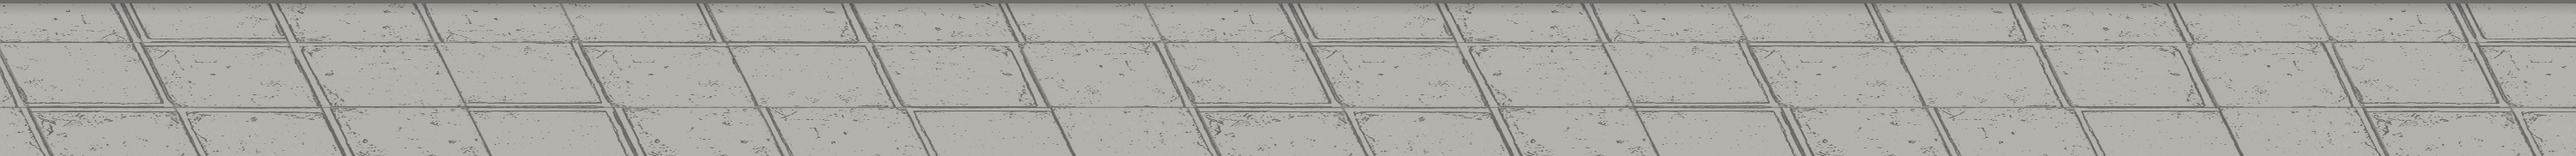
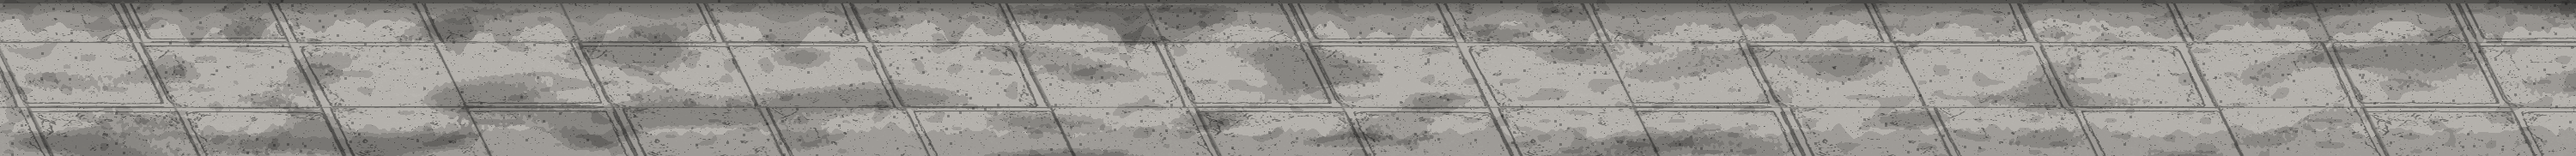
Grimy streets, one to contrast each wall (#110)
Three streets instead of one per wall: setts (ground.png), bonded flagstones
(ground-flags.png) and cracked asphalt (ground-asphalt.png), each wall on one
that contrasts with it (1 and 4 flagstones, 2 and 6 asphalt, 3, 5 and the
brick setts). All grimed in the book's flat, drawn look: ragged two-tone
stains, soot pooled at the wall's foot, grit and chips, a ragged gutter.
ground-1.png ... ground-5.png are removed; scripts/wall-tiles.py --grounds
draws them.

Claude-Session: https://claude.ai/code/session_01LRucPcoCMzxkhYqtQLBmm8

diff --git a/styles/dc-native.css b/styles/dc-native.css
@@ -253,13 +253,13 @@
    generated, tiles included, by scripts/wall-tiles.py from
    source-art/wall-sheet.png. */
 /* page-walls:begin — generated by scripts/wall-tiles.py; edit that, not this */
-@page dc-wall-1 { background: url("../images/ground-1.png") 50% calc(var(--gp-content-h, 100% - var(--bottom-margin) + 0.6in) + var(--bottom-margin) - 0.6in) / 10in 0.6in no-repeat, url("../images/wall-1.png") 0 0 / 4.58in auto repeat var(--bg); }
-@page dc-wall-1-blue { background: url("../images/ground-1.png") 50% calc(var(--gp-content-h, 100% - var(--bottom-margin) + 0.6in) + var(--bottom-margin) - 0.6in) / 10in 0.6in no-repeat, url("../images/wall-1.png") 0 0 / 4.58in auto repeat var(--bg); }
-@page dc-wall-1-rust { background: url("../images/ground-1.png") 50% calc(var(--gp-content-h, 100% - var(--bottom-margin) + 0.6in) + var(--bottom-margin) - 0.6in) / 10in 0.6in no-repeat, url("../images/wall-1.png") 0 0 / 4.58in auto repeat var(--bg); }
-@page dc-wall-1-violet { background: url("../images/ground-1.png") 50% calc(var(--gp-content-h, 100% - var(--bottom-margin) + 0.6in) + var(--bottom-margin) - 0.6in) / 10in 0.6in no-repeat, url("../images/wall-1.png") 0 0 / 4.58in auto repeat var(--bg); }
-@page dc-wall-1-amethyst { background: url("../images/ground-1.png") 50% calc(var(--gp-content-h, 100% - var(--bottom-margin) + 0.6in) + var(--bottom-margin) - 0.6in) / 10in 0.6in no-repeat, url("../images/wall-1.png") 0 0 / 4.58in auto repeat var(--bg); }
-@page dc-wall-1-amber { background: url("../images/ground-1.png") 50% calc(var(--gp-content-h, 100% - var(--bottom-margin) + 0.6in) + var(--bottom-margin) - 0.6in) / 10in 0.6in no-repeat, url("../images/wall-1.png") 0 0 / 4.58in auto repeat var(--bg); }
-@page dc-wall-1-ink { background: url("../images/ground-1.png") 50% calc(var(--gp-content-h, 100% - var(--bottom-margin) + 0.6in) + var(--bottom-margin) - 0.6in) / 10in 0.6in no-repeat, url("../images/wall-1.png") 0 0 / 4.58in auto repeat var(--bg); }
+@page dc-wall-1 { background: url("../images/ground-flags.png") 50% calc(var(--gp-content-h, 100% - var(--bottom-margin) + 0.6in) + var(--bottom-margin) - 0.6in) / 10in 0.6in no-repeat, url("../images/wall-1.png") 0 0 / 4.58in auto repeat var(--bg); }
+@page dc-wall-1-blue { background: url("../images/ground-flags.png") 50% calc(var(--gp-content-h, 100% - var(--bottom-margin) + 0.6in) + var(--bottom-margin) - 0.6in) / 10in 0.6in no-repeat, url("../images/wall-1.png") 0 0 / 4.58in auto repeat var(--bg); }
+@page dc-wall-1-rust { background: url("../images/ground-flags.png") 50% calc(var(--gp-content-h, 100% - var(--bottom-margin) + 0.6in) + var(--bottom-margin) - 0.6in) / 10in 0.6in no-repeat, url("../images/wall-1.png") 0 0 / 4.58in auto repeat var(--bg); }
+@page dc-wall-1-violet { background: url("../images/ground-flags.png") 50% calc(var(--gp-content-h, 100% - var(--bottom-margin) + 0.6in) + var(--bottom-margin) - 0.6in) / 10in 0.6in no-repeat, url("../images/wall-1.png") 0 0 / 4.58in auto repeat var(--bg); }
+@page dc-wall-1-amethyst { background: url("../images/ground-flags.png") 50% calc(var(--gp-content-h, 100% - var(--bottom-margin) + 0.6in) + var(--bottom-margin) - 0.6in) / 10in 0.6in no-repeat, url("../images/wall-1.png") 0 0 / 4.58in auto repeat var(--bg); }
+@page dc-wall-1-amber { background: url("../images/ground-flags.png") 50% calc(var(--gp-content-h, 100% - var(--bottom-margin) + 0.6in) + var(--bottom-margin) - 0.6in) / 10in 0.6in no-repeat, url("../images/wall-1.png") 0 0 / 4.58in auto repeat var(--bg); }
+@page dc-wall-1-ink { background: url("../images/ground-flags.png") 50% calc(var(--gp-content-h, 100% - var(--bottom-margin) + 0.6in) + var(--bottom-margin) - 0.6in) / 10in 0.6in no-repeat, url("../images/wall-1.png") 0 0 / 4.58in auto repeat var(--bg); }
 @page dc-wall-1-blue:left  { @bottom-right { background: var(--hud-blue-dark); } }
 @page dc-wall-1-blue:right { @bottom-left  { background: var(--hud-blue-dark); } }
 @page dc-wall-1-rust:left  { @bottom-right { background: var(--rust); } }
@@ -272,13 +272,13 @@
 @page dc-wall-1-amber:right { @bottom-left  { background: var(--amber-dark); } }
 @page dc-wall-1-ink:left  { @bottom-right { background: var(--ink-dark); } }
 @page dc-wall-1-ink:right { @bottom-left  { background: var(--ink-dark); } }
-@page dc-wall-2 { background: url("../images/ground-2.png") 50% calc(var(--gp-content-h, 100% - var(--bottom-margin) + 0.6in) + var(--bottom-margin) - 0.6in) / 10in 0.6in no-repeat, url("../images/wall-2.png") 0 0 / 4.78in auto repeat var(--bg); }
-@page dc-wall-2-blue { background: url("../images/ground-2.png") 50% calc(var(--gp-content-h, 100% - var(--bottom-margin) + 0.6in) + var(--bottom-margin) - 0.6in) / 10in 0.6in no-repeat, url("../images/wall-2.png") 0 0 / 4.78in auto repeat var(--bg); }
-@page dc-wall-2-rust { background: url("../images/ground-2.png") 50% calc(var(--gp-content-h, 100% - var(--bottom-margin) + 0.6in) + var(--bottom-margin) - 0.6in) / 10in 0.6in no-repeat, url("../images/wall-2.png") 0 0 / 4.78in auto repeat var(--bg); }
-@page dc-wall-2-violet { background: url("../images/ground-2.png") 50% calc(var(--gp-content-h, 100% - var(--bottom-margin) + 0.6in) + var(--bottom-margin) - 0.6in) / 10in 0.6in no-repeat, url("../images/wall-2.png") 0 0 / 4.78in auto repeat var(--bg); }
-@page dc-wall-2-amethyst { background: url("../images/ground-2.png") 50% calc(var(--gp-content-h, 100% - var(--bottom-margin) + 0.6in) + var(--bottom-margin) - 0.6in) / 10in 0.6in no-repeat, url("../images/wall-2.png") 0 0 / 4.78in auto repeat var(--bg); }
-@page dc-wall-2-amber { background: url("../images/ground-2.png") 50% calc(var(--gp-content-h, 100% - var(--bottom-margin) + 0.6in) + var(--bottom-margin) - 0.6in) / 10in 0.6in no-repeat, url("../images/wall-2.png") 0 0 / 4.78in auto repeat var(--bg); }
-@page dc-wall-2-ink { background: url("../images/ground-2.png") 50% calc(var(--gp-content-h, 100% - var(--bottom-margin) + 0.6in) + var(--bottom-margin) - 0.6in) / 10in 0.6in no-repeat, url("../images/wall-2.png") 0 0 / 4.78in auto repeat var(--bg); }
+@page dc-wall-2 { background: url("../images/ground-asphalt.png") 50% calc(var(--gp-content-h, 100% - var(--bottom-margin) + 0.6in) + var(--bottom-margin) - 0.6in) / 10in 0.6in no-repeat, url("../images/wall-2.png") 0 0 / 4.78in auto repeat var(--bg); }
+@page dc-wall-2-blue { background: url("../images/ground-asphalt.png") 50% calc(var(--gp-content-h, 100% - var(--bottom-margin) + 0.6in) + var(--bottom-margin) - 0.6in) / 10in 0.6in no-repeat, url("../images/wall-2.png") 0 0 / 4.78in auto repeat var(--bg); }
+@page dc-wall-2-rust { background: url("../images/ground-asphalt.png") 50% calc(var(--gp-content-h, 100% - var(--bottom-margin) + 0.6in) + var(--bottom-margin) - 0.6in) / 10in 0.6in no-repeat, url("../images/wall-2.png") 0 0 / 4.78in auto repeat var(--bg); }
+@page dc-wall-2-violet { background: url("../images/ground-asphalt.png") 50% calc(var(--gp-content-h, 100% - var(--bottom-margin) + 0.6in) + var(--bottom-margin) - 0.6in) / 10in 0.6in no-repeat, url("../images/wall-2.png") 0 0 / 4.78in auto repeat var(--bg); }
+@page dc-wall-2-amethyst { background: url("../images/ground-asphalt.png") 50% calc(var(--gp-content-h, 100% - var(--bottom-margin) + 0.6in) + var(--bottom-margin) - 0.6in) / 10in 0.6in no-repeat, url("../images/wall-2.png") 0 0 / 4.78in auto repeat var(--bg); }
+@page dc-wall-2-amber { background: url("../images/ground-asphalt.png") 50% calc(var(--gp-content-h, 100% - var(--bottom-margin) + 0.6in) + var(--bottom-margin) - 0.6in) / 10in 0.6in no-repeat, url("../images/wall-2.png") 0 0 / 4.78in auto repeat var(--bg); }
+@page dc-wall-2-ink { background: url("../images/ground-asphalt.png") 50% calc(var(--gp-content-h, 100% - var(--bottom-margin) + 0.6in) + var(--bottom-margin) - 0.6in) / 10in 0.6in no-repeat, url("../images/wall-2.png") 0 0 / 4.78in auto repeat var(--bg); }
 @page dc-wall-2-blue:left  { @bottom-right { background: var(--hud-blue-dark); } }
 @page dc-wall-2-blue:right { @bottom-left  { background: var(--hud-blue-dark); } }
 @page dc-wall-2-rust:left  { @bottom-right { background: var(--rust); } }
@@ -291,13 +291,13 @@
 @page dc-wall-2-amber:right { @bottom-left  { background: var(--amber-dark); } }
 @page dc-wall-2-ink:left  { @bottom-right { background: var(--ink-dark); } }
 @page dc-wall-2-ink:right { @bottom-left  { background: var(--ink-dark); } }
-@page dc-wall-3 { background: url("../images/ground-3.png") 50% calc(var(--gp-content-h, 100% - var(--bottom-margin) + 0.6in) + var(--bottom-margin) - 0.6in) / 10in 0.6in no-repeat, url("../images/wall-3.png") 0 0 / 4.70in auto repeat var(--bg); }
-@page dc-wall-3-blue { background: url("../images/ground-3.png") 50% calc(var(--gp-content-h, 100% - var(--bottom-margin) + 0.6in) + var(--bottom-margin) - 0.6in) / 10in 0.6in no-repeat, url("../images/wall-3.png") 0 0 / 4.70in auto repeat var(--bg); }
-@page dc-wall-3-rust { background: url("../images/ground-3.png") 50% calc(var(--gp-content-h, 100% - var(--bottom-margin) + 0.6in) + var(--bottom-margin) - 0.6in) / 10in 0.6in no-repeat, url("../images/wall-3.png") 0 0 / 4.70in auto repeat var(--bg); }
-@page dc-wall-3-violet { background: url("../images/ground-3.png") 50% calc(var(--gp-content-h, 100% - var(--bottom-margin) + 0.6in) + var(--bottom-margin) - 0.6in) / 10in 0.6in no-repeat, url("../images/wall-3.png") 0 0 / 4.70in auto repeat var(--bg); }
-@page dc-wall-3-amethyst { background: url("../images/ground-3.png") 50% calc(var(--gp-content-h, 100% - var(--bottom-margin) + 0.6in) + var(--bottom-margin) - 0.6in) / 10in 0.6in no-repeat, url("../images/wall-3.png") 0 0 / 4.70in auto repeat var(--bg); }
-@page dc-wall-3-amber { background: url("../images/ground-3.png") 50% calc(var(--gp-content-h, 100% - var(--bottom-margin) + 0.6in) + var(--bottom-margin) - 0.6in) / 10in 0.6in no-repeat, url("../images/wall-3.png") 0 0 / 4.70in auto repeat var(--bg); }
-@page dc-wall-3-ink { background: url("../images/ground-3.png") 50% calc(var(--gp-content-h, 100% - var(--bottom-margin) + 0.6in) + var(--bottom-margin) - 0.6in) / 10in 0.6in no-repeat, url("../images/wall-3.png") 0 0 / 4.70in auto repeat var(--bg); }
+@page dc-wall-3 { background: url("../images/ground.png") 50% calc(var(--gp-content-h, 100% - var(--bottom-margin) + 0.6in) + var(--bottom-margin) - 0.6in) / 10in 0.6in no-repeat, url("../images/wall-3.png") 0 0 / 4.70in auto repeat var(--bg); }
+@page dc-wall-3-blue { background: url("../images/ground.png") 50% calc(var(--gp-content-h, 100% - var(--bottom-margin) + 0.6in) + var(--bottom-margin) - 0.6in) / 10in 0.6in no-repeat, url("../images/wall-3.png") 0 0 / 4.70in auto repeat var(--bg); }
+@page dc-wall-3-rust { background: url("../images/ground.png") 50% calc(var(--gp-content-h, 100% - var(--bottom-margin) + 0.6in) + var(--bottom-margin) - 0.6in) / 10in 0.6in no-repeat, url("../images/wall-3.png") 0 0 / 4.70in auto repeat var(--bg); }
+@page dc-wall-3-violet { background: url("../images/ground.png") 50% calc(var(--gp-content-h, 100% - var(--bottom-margin) + 0.6in) + var(--bottom-margin) - 0.6in) / 10in 0.6in no-repeat, url("../images/wall-3.png") 0 0 / 4.70in auto repeat var(--bg); }
+@page dc-wall-3-amethyst { background: url("../images/ground.png") 50% calc(var(--gp-content-h, 100% - var(--bottom-margin) + 0.6in) + var(--bottom-margin) - 0.6in) / 10in 0.6in no-repeat, url("../images/wall-3.png") 0 0 / 4.70in auto repeat var(--bg); }
+@page dc-wall-3-amber { background: url("../images/ground.png") 50% calc(var(--gp-content-h, 100% - var(--bottom-margin) + 0.6in) + var(--bottom-margin) - 0.6in) / 10in 0.6in no-repeat, url("../images/wall-3.png") 0 0 / 4.70in auto repeat var(--bg); }
+@page dc-wall-3-ink { background: url("../images/ground.png") 50% calc(var(--gp-content-h, 100% - var(--bottom-margin) + 0.6in) + var(--bottom-margin) - 0.6in) / 10in 0.6in no-repeat, url("../images/wall-3.png") 0 0 / 4.70in auto repeat var(--bg); }
 @page dc-wall-3-blue:left  { @bottom-right { background: var(--hud-blue-dark); } }
 @page dc-wall-3-blue:right { @bottom-left  { background: var(--hud-blue-dark); } }
 @page dc-wall-3-rust:left  { @bottom-right { background: var(--rust); } }
@@ -310,13 +310,13 @@
 @page dc-wall-3-amber:right { @bottom-left  { background: var(--amber-dark); } }
 @page dc-wall-3-ink:left  { @bottom-right { background: var(--ink-dark); } }
 @page dc-wall-3-ink:right { @bottom-left  { background: var(--ink-dark); } }
-@page dc-wall-4 { background: url("../images/ground-4.png") 50% calc(var(--gp-content-h, 100% - var(--bottom-margin) + 0.6in) + var(--bottom-margin) - 0.6in) / 10in 0.6in no-repeat, url("../images/wall-4.png") 0 0 / 4.80in auto repeat var(--bg); }
-@page dc-wall-4-blue { background: url("../images/ground-4.png") 50% calc(var(--gp-content-h, 100% - var(--bottom-margin) + 0.6in) + var(--bottom-margin) - 0.6in) / 10in 0.6in no-repeat, url("../images/wall-4.png") 0 0 / 4.80in auto repeat var(--bg); }
-@page dc-wall-4-rust { background: url("../images/ground-4.png") 50% calc(var(--gp-content-h, 100% - var(--bottom-margin) + 0.6in) + var(--bottom-margin) - 0.6in) / 10in 0.6in no-repeat, url("../images/wall-4.png") 0 0 / 4.80in auto repeat var(--bg); }
-@page dc-wall-4-violet { background: url("../images/ground-4.png") 50% calc(var(--gp-content-h, 100% - var(--bottom-margin) + 0.6in) + var(--bottom-margin) - 0.6in) / 10in 0.6in no-repeat, url("../images/wall-4.png") 0 0 / 4.80in auto repeat var(--bg); }
-@page dc-wall-4-amethyst { background: url("../images/ground-4.png") 50% calc(var(--gp-content-h, 100% - var(--bottom-margin) + 0.6in) + var(--bottom-margin) - 0.6in) / 10in 0.6in no-repeat, url("../images/wall-4.png") 0 0 / 4.80in auto repeat var(--bg); }
-@page dc-wall-4-amber { background: url("../images/ground-4.png") 50% calc(var(--gp-content-h, 100% - var(--bottom-margin) + 0.6in) + var(--bottom-margin) - 0.6in) / 10in 0.6in no-repeat, url("../images/wall-4.png") 0 0 / 4.80in auto repeat var(--bg); }
-@page dc-wall-4-ink { background: url("../images/ground-4.png") 50% calc(var(--gp-content-h, 100% - var(--bottom-margin) + 0.6in) + var(--bottom-margin) - 0.6in) / 10in 0.6in no-repeat, url("../images/wall-4.png") 0 0 / 4.80in auto repeat var(--bg); }
+@page dc-wall-4 { background: url("../images/ground-flags.png") 50% calc(var(--gp-content-h, 100% - var(--bottom-margin) + 0.6in) + var(--bottom-margin) - 0.6in) / 10in 0.6in no-repeat, url("../images/wall-4.png") 0 0 / 4.80in auto repeat var(--bg); }
+@page dc-wall-4-blue { background: url("../images/ground-flags.png") 50% calc(var(--gp-content-h, 100% - var(--bottom-margin) + 0.6in) + var(--bottom-margin) - 0.6in) / 10in 0.6in no-repeat, url("../images/wall-4.png") 0 0 / 4.80in auto repeat var(--bg); }
+@page dc-wall-4-rust { background: url("../images/ground-flags.png") 50% calc(var(--gp-content-h, 100% - var(--bottom-margin) + 0.6in) + var(--bottom-margin) - 0.6in) / 10in 0.6in no-repeat, url("../images/wall-4.png") 0 0 / 4.80in auto repeat var(--bg); }
+@page dc-wall-4-violet { background: url("../images/ground-flags.png") 50% calc(var(--gp-content-h, 100% - var(--bottom-margin) + 0.6in) + var(--bottom-margin) - 0.6in) / 10in 0.6in no-repeat, url("../images/wall-4.png") 0 0 / 4.80in auto repeat var(--bg); }
+@page dc-wall-4-amethyst { background: url("../images/ground-flags.png") 50% calc(var(--gp-content-h, 100% - var(--bottom-margin) + 0.6in) + var(--bottom-margin) - 0.6in) / 10in 0.6in no-repeat, url("../images/wall-4.png") 0 0 / 4.80in auto repeat var(--bg); }
+@page dc-wall-4-amber { background: url("../images/ground-flags.png") 50% calc(var(--gp-content-h, 100% - var(--bottom-margin) + 0.6in) + var(--bottom-margin) - 0.6in) / 10in 0.6in no-repeat, url("../images/wall-4.png") 0 0 / 4.80in auto repeat var(--bg); }
+@page dc-wall-4-ink { background: url("../images/ground-flags.png") 50% calc(var(--gp-content-h, 100% - var(--bottom-margin) + 0.6in) + var(--bottom-margin) - 0.6in) / 10in 0.6in no-repeat, url("../images/wall-4.png") 0 0 / 4.80in auto repeat var(--bg); }
 @page dc-wall-4-blue:left  { @bottom-right { background: var(--hud-blue-dark); } }
 @page dc-wall-4-blue:right { @bottom-left  { background: var(--hud-blue-dark); } }
 @page dc-wall-4-rust:left  { @bottom-right { background: var(--rust); } }
@@ -329,13 +329,13 @@
 @page dc-wall-4-amber:right { @bottom-left  { background: var(--amber-dark); } }
 @page dc-wall-4-ink:left  { @bottom-right { background: var(--ink-dark); } }
 @page dc-wall-4-ink:right { @bottom-left  { background: var(--ink-dark); } }
-@page dc-wall-5 { background: url("../images/ground-5.png") 50% calc(var(--gp-content-h, 100% - var(--bottom-margin) + 0.6in) + var(--bottom-margin) - 0.6in) / 10in 0.6in no-repeat, url("../images/wall-5.png") 0 0 / 4.79in auto repeat var(--bg); }
-@page dc-wall-5-blue { background: url("../images/ground-5.png") 50% calc(var(--gp-content-h, 100% - var(--bottom-margin) + 0.6in) + var(--bottom-margin) - 0.6in) / 10in 0.6in no-repeat, url("../images/wall-5.png") 0 0 / 4.79in auto repeat var(--bg); }
-@page dc-wall-5-rust { background: url("../images/ground-5.png") 50% calc(var(--gp-content-h, 100% - var(--bottom-margin) + 0.6in) + var(--bottom-margin) - 0.6in) / 10in 0.6in no-repeat, url("../images/wall-5.png") 0 0 / 4.79in auto repeat var(--bg); }
-@page dc-wall-5-violet { background: url("../images/ground-5.png") 50% calc(var(--gp-content-h, 100% - var(--bottom-margin) + 0.6in) + var(--bottom-margin) - 0.6in) / 10in 0.6in no-repeat, url("../images/wall-5.png") 0 0 / 4.79in auto repeat var(--bg); }
-@page dc-wall-5-amethyst { background: url("../images/ground-5.png") 50% calc(var(--gp-content-h, 100% - var(--bottom-margin) + 0.6in) + var(--bottom-margin) - 0.6in) / 10in 0.6in no-repeat, url("../images/wall-5.png") 0 0 / 4.79in auto repeat var(--bg); }
-@page dc-wall-5-amber { background: url("../images/ground-5.png") 50% calc(var(--gp-content-h, 100% - var(--bottom-margin) + 0.6in) + var(--bottom-margin) - 0.6in) / 10in 0.6in no-repeat, url("../images/wall-5.png") 0 0 / 4.79in auto repeat var(--bg); }
-@page dc-wall-5-ink { background: url("../images/ground-5.png") 50% calc(var(--gp-content-h, 100% - var(--bottom-margin) + 0.6in) + var(--bottom-margin) - 0.6in) / 10in 0.6in no-repeat, url("../images/wall-5.png") 0 0 / 4.79in auto repeat var(--bg); }
+@page dc-wall-5 { background: url("../images/ground.png") 50% calc(var(--gp-content-h, 100% - var(--bottom-margin) + 0.6in) + var(--bottom-margin) - 0.6in) / 10in 0.6in no-repeat, url("../images/wall-5.png") 0 0 / 4.79in auto repeat var(--bg); }
+@page dc-wall-5-blue { background: url("../images/ground.png") 50% calc(var(--gp-content-h, 100% - var(--bottom-margin) + 0.6in) + var(--bottom-margin) - 0.6in) / 10in 0.6in no-repeat, url("../images/wall-5.png") 0 0 / 4.79in auto repeat var(--bg); }
+@page dc-wall-5-rust { background: url("../images/ground.png") 50% calc(var(--gp-content-h, 100% - var(--bottom-margin) + 0.6in) + var(--bottom-margin) - 0.6in) / 10in 0.6in no-repeat, url("../images/wall-5.png") 0 0 / 4.79in auto repeat var(--bg); }
+@page dc-wall-5-violet { background: url("../images/ground.png") 50% calc(var(--gp-content-h, 100% - var(--bottom-margin) + 0.6in) + var(--bottom-margin) - 0.6in) / 10in 0.6in no-repeat, url("../images/wall-5.png") 0 0 / 4.79in auto repeat var(--bg); }
+@page dc-wall-5-amethyst { background: url("../images/ground.png") 50% calc(var(--gp-content-h, 100% - var(--bottom-margin) + 0.6in) + var(--bottom-margin) - 0.6in) / 10in 0.6in no-repeat, url("../images/wall-5.png") 0 0 / 4.79in auto repeat var(--bg); }
+@page dc-wall-5-amber { background: url("../images/ground.png") 50% calc(var(--gp-content-h, 100% - var(--bottom-margin) + 0.6in) + var(--bottom-margin) - 0.6in) / 10in 0.6in no-repeat, url("../images/wall-5.png") 0 0 / 4.79in auto repeat var(--bg); }
+@page dc-wall-5-ink { background: url("../images/ground.png") 50% calc(var(--gp-content-h, 100% - var(--bottom-margin) + 0.6in) + var(--bottom-margin) - 0.6in) / 10in 0.6in no-repeat, url("../images/wall-5.png") 0 0 / 4.79in auto repeat var(--bg); }
 @page dc-wall-5-blue:left  { @bottom-right { background: var(--hud-blue-dark); } }
 @page dc-wall-5-blue:right { @bottom-left  { background: var(--hud-blue-dark); } }
 @page dc-wall-5-rust:left  { @bottom-right { background: var(--rust); } }
@@ -348,13 +348,13 @@
 @page dc-wall-5-amber:right { @bottom-left  { background: var(--amber-dark); } }
 @page dc-wall-5-ink:left  { @bottom-right { background: var(--ink-dark); } }
 @page dc-wall-5-ink:right { @bottom-left  { background: var(--ink-dark); } }
-@page dc-wall-6 { background: url("../images/ground.png") 50% calc(var(--gp-content-h, 100% - var(--bottom-margin) + 0.6in) + var(--bottom-margin) - 0.6in) / 10in 0.6in no-repeat, url("../images/wall-6.png") 0 0 / 4.53in auto repeat var(--bg); }
-@page dc-wall-6-blue { background: url("../images/ground.png") 50% calc(var(--gp-content-h, 100% - var(--bottom-margin) + 0.6in) + var(--bottom-margin) - 0.6in) / 10in 0.6in no-repeat, url("../images/wall-6.png") 0 0 / 4.53in auto repeat var(--bg); }
-@page dc-wall-6-rust { background: url("../images/ground.png") 50% calc(var(--gp-content-h, 100% - var(--bottom-margin) + 0.6in) + var(--bottom-margin) - 0.6in) / 10in 0.6in no-repeat, url("../images/wall-6.png") 0 0 / 4.53in auto repeat var(--bg); }
-@page dc-wall-6-violet { background: url("../images/ground.png") 50% calc(var(--gp-content-h, 100% - var(--bottom-margin) + 0.6in) + var(--bottom-margin) - 0.6in) / 10in 0.6in no-repeat, url("../images/wall-6.png") 0 0 / 4.53in auto repeat var(--bg); }
-@page dc-wall-6-amethyst { background: url("../images/ground.png") 50% calc(var(--gp-content-h, 100% - var(--bottom-margin) + 0.6in) + var(--bottom-margin) - 0.6in) / 10in 0.6in no-repeat, url("../images/wall-6.png") 0 0 / 4.53in auto repeat var(--bg); }
-@page dc-wall-6-amber { background: url("../images/ground.png") 50% calc(var(--gp-content-h, 100% - var(--bottom-margin) + 0.6in) + var(--bottom-margin) - 0.6in) / 10in 0.6in no-repeat, url("../images/wall-6.png") 0 0 / 4.53in auto repeat var(--bg); }
-@page dc-wall-6-ink { background: url("../images/ground.png") 50% calc(var(--gp-content-h, 100% - var(--bottom-margin) + 0.6in) + var(--bottom-margin) - 0.6in) / 10in 0.6in no-repeat, url("../images/wall-6.png") 0 0 / 4.53in auto repeat var(--bg); }
+@page dc-wall-6 { background: url("../images/ground-asphalt.png") 50% calc(var(--gp-content-h, 100% - var(--bottom-margin) + 0.6in) + var(--bottom-margin) - 0.6in) / 10in 0.6in no-repeat, url("../images/wall-6.png") 0 0 / 4.53in auto repeat var(--bg); }
+@page dc-wall-6-blue { background: url("../images/ground-asphalt.png") 50% calc(var(--gp-content-h, 100% - var(--bottom-margin) + 0.6in) + var(--bottom-margin) - 0.6in) / 10in 0.6in no-repeat, url("../images/wall-6.png") 0 0 / 4.53in auto repeat var(--bg); }
+@page dc-wall-6-rust { background: url("../images/ground-asphalt.png") 50% calc(var(--gp-content-h, 100% - var(--bottom-margin) + 0.6in) + var(--bottom-margin) - 0.6in) / 10in 0.6in no-repeat, url("../images/wall-6.png") 0 0 / 4.53in auto repeat var(--bg); }
+@page dc-wall-6-violet { background: url("../images/ground-asphalt.png") 50% calc(var(--gp-content-h, 100% - var(--bottom-margin) + 0.6in) + var(--bottom-margin) - 0.6in) / 10in 0.6in no-repeat, url("../images/wall-6.png") 0 0 / 4.53in auto repeat var(--bg); }
+@page dc-wall-6-amethyst { background: url("../images/ground-asphalt.png") 50% calc(var(--gp-content-h, 100% - var(--bottom-margin) + 0.6in) + var(--bottom-margin) - 0.6in) / 10in 0.6in no-repeat, url("../images/wall-6.png") 0 0 / 4.53in auto repeat var(--bg); }
+@page dc-wall-6-amber { background: url("../images/ground-asphalt.png") 50% calc(var(--gp-content-h, 100% - var(--bottom-margin) + 0.6in) + var(--bottom-margin) - 0.6in) / 10in 0.6in no-repeat, url("../images/wall-6.png") 0 0 / 4.53in auto repeat var(--bg); }
+@page dc-wall-6-ink { background: url("../images/ground-asphalt.png") 50% calc(var(--gp-content-h, 100% - var(--bottom-margin) + 0.6in) + var(--bottom-margin) - 0.6in) / 10in 0.6in no-repeat, url("../images/wall-6.png") 0 0 / 4.53in auto repeat var(--bg); }
 @page dc-wall-6-blue:left  { @bottom-right { background: var(--hud-blue-dark); } }
 @page dc-wall-6-blue:right { @bottom-left  { background: var(--hud-blue-dark); } }
 @page dc-wall-6-rust:left  { @bottom-right { background: var(--rust); } }

diff --git a/styles/page-rules.css b/styles/page-rules.css
@@ -115,7 +115,7 @@
 .chapter.dc-chapter-dm :where(.dc-page-wall-1:not(.page, .gp-page-full-bleed, .dc-full-page, .dc-page-contents, .dc-page-credits, .dc-page-intro, .dc-page-citizen-file)) > :not(.gp-page-full-bleed, .dc-full-page, .dc-page-contents, .dc-page-credits, .dc-page-intro, .dc-page-citizen-file, .dc-specialty-art) { page: dc-wall-1-ink; }
 .chapter.dc-chapter-gear :where(.dc-page-wall-1:not(.page, .gp-page-full-bleed, .dc-full-page, .dc-page-contents, .dc-page-credits, .dc-page-intro, .dc-page-citizen-file)) > :not(.gp-page-full-bleed, .dc-full-page, .dc-page-contents, .dc-page-credits, .dc-page-intro, .dc-page-citizen-file, .dc-specialty-art) { page: dc-wall-1-amber; }
 :where(.dc-page-wall-1:not(.page, .gp-page-full-bleed, .dc-full-page, .dc-page-contents, .dc-page-credits, .dc-page-intro, .dc-page-citizen-file)) > :not(.gp-page-full-bleed, .dc-full-page, .dc-page-contents, .dc-page-credits, .dc-page-intro, .dc-page-citizen-file, .dc-specialty-art) { page: dc-wall-1; }
-@page dc-wall-1-full { margin: 0; background: url("../images/ground-1.png") 50% calc(var(--gp-page-height, 11.25in) - 0.6in) / 10in 0.6in no-repeat, url("../images/wall-1.png") 0 0 / 4.58in auto repeat var(--bg); @bottom-left { content: none; } @bottom-right { content: none; } }
+@page dc-wall-1-full { margin: 0; background: url("../images/ground-flags.png") 50% calc(var(--gp-page-height, 11.25in) - 0.6in) / 10in 0.6in no-repeat, url("../images/wall-1.png") 0 0 / 4.58in auto repeat var(--bg); @bottom-left { content: none; } @bottom-right { content: none; } }
 .dc-page-wall-1:not(.page, .gp-page-full-bleed, .dc-full-page, .dc-page-contents, .dc-page-credits, .dc-page-intro, .dc-page-citizen-file) > .dc-specialty-art { page: dc-wall-1-full; }
 .chapter.dc-chapter-specialty > .page.dc-page-wall-2:where(:not(.gp-page-full-bleed, .dc-full-page, .dc-page-contents, .dc-page-credits, .dc-page-intro, .dc-page-citizen-file)) { page: dc-wall-2-blue; }
 .chapter.dc-chapter-rules > .page.dc-page-wall-2:where(:not(.gp-page-full-bleed, .dc-full-page, .dc-page-contents, .dc-page-credits, .dc-page-intro, .dc-page-citizen-file)) { page: dc-wall-2-rust; }
@@ -129,7 +129,7 @@
 .chapter.dc-chapter-dm :where(.dc-page-wall-2:not(.page, .gp-page-full-bleed, .dc-full-page, .dc-page-contents, .dc-page-credits, .dc-page-intro, .dc-page-citizen-file)) > :not(.gp-page-full-bleed, .dc-full-page, .dc-page-contents, .dc-page-credits, .dc-page-intro, .dc-page-citizen-file, .dc-specialty-art) { page: dc-wall-2-ink; }
 .chapter.dc-chapter-gear :where(.dc-page-wall-2:not(.page, .gp-page-full-bleed, .dc-full-page, .dc-page-contents, .dc-page-credits, .dc-page-intro, .dc-page-citizen-file)) > :not(.gp-page-full-bleed, .dc-full-page, .dc-page-contents, .dc-page-credits, .dc-page-intro, .dc-page-citizen-file, .dc-specialty-art) { page: dc-wall-2-amber; }
 :where(.dc-page-wall-2:not(.page, .gp-page-full-bleed, .dc-full-page, .dc-page-contents, .dc-page-credits, .dc-page-intro, .dc-page-citizen-file)) > :not(.gp-page-full-bleed, .dc-full-page, .dc-page-contents, .dc-page-credits, .dc-page-intro, .dc-page-citizen-file, .dc-specialty-art) { page: dc-wall-2; }
-@page dc-wall-2-full { margin: 0; background: url("../images/ground-2.png") 50% calc(var(--gp-page-height, 11.25in) - 0.6in) / 10in 0.6in no-repeat, url("../images/wall-2.png") 0 0 / 4.78in auto repeat var(--bg); @bottom-left { content: none; } @bottom-right { content: none; } }
+@page dc-wall-2-full { margin: 0; background: url("../images/ground-asphalt.png") 50% calc(var(--gp-page-height, 11.25in) - 0.6in) / 10in 0.6in no-repeat, url("../images/wall-2.png") 0 0 / 4.78in auto repeat var(--bg); @bottom-left { content: none; } @bottom-right { content: none; } }
 .dc-page-wall-2:not(.page, .gp-page-full-bleed, .dc-full-page, .dc-page-contents, .dc-page-credits, .dc-page-intro, .dc-page-citizen-file) > .dc-specialty-art { page: dc-wall-2-full; }
 .chapter.dc-chapter-specialty > .page.dc-page-wall-3:where(:not(.gp-page-full-bleed, .dc-full-page, .dc-page-contents, .dc-page-credits, .dc-page-intro, .dc-page-citizen-file)) { page: dc-wall-3-blue; }
 .chapter.dc-chapter-rules > .page.dc-page-wall-3:where(:not(.gp-page-full-bleed, .dc-full-page, .dc-page-contents, .dc-page-credits, .dc-page-intro, .dc-page-citizen-file)) { page: dc-wall-3-rust; }
@@ -143,7 +143,7 @@
 .chapter.dc-chapter-dm :where(.dc-page-wall-3:not(.page, .gp-page-full-bleed, .dc-full-page, .dc-page-contents, .dc-page-credits, .dc-page-intro, .dc-page-citizen-file)) > :not(.gp-page-full-bleed, .dc-full-page, .dc-page-contents, .dc-page-credits, .dc-page-intro, .dc-page-citizen-file, .dc-specialty-art) { page: dc-wall-3-ink; }
 .chapter.dc-chapter-gear :where(.dc-page-wall-3:not(.page, .gp-page-full-bleed, .dc-full-page, .dc-page-contents, .dc-page-credits, .dc-page-intro, .dc-page-citizen-file)) > :not(.gp-page-full-bleed, .dc-full-page, .dc-page-contents, .dc-page-credits, .dc-page-intro, .dc-page-citizen-file, .dc-specialty-art) { page: dc-wall-3-amber; }
 :where(.dc-page-wall-3:not(.page, .gp-page-full-bleed, .dc-full-page, .dc-page-contents, .dc-page-credits, .dc-page-intro, .dc-page-citizen-file)) > :not(.gp-page-full-bleed, .dc-full-page, .dc-page-contents, .dc-page-credits, .dc-page-intro, .dc-page-citizen-file, .dc-specialty-art) { page: dc-wall-3; }
-@page dc-wall-3-full { margin: 0; background: url("../images/ground-3.png") 50% calc(var(--gp-page-height, 11.25in) - 0.6in) / 10in 0.6in no-repeat, url("../images/wall-3.png") 0 0 / 4.70in auto repeat var(--bg); @bottom-left { content: none; } @bottom-right { content: none; } }
+@page dc-wall-3-full { margin: 0; background: url("../images/ground.png") 50% calc(var(--gp-page-height, 11.25in) - 0.6in) / 10in 0.6in no-repeat, url("../images/wall-3.png") 0 0 / 4.70in auto repeat var(--bg); @bottom-left { content: none; } @bottom-right { content: none; } }
 .dc-page-wall-3:not(.page, .gp-page-full-bleed, .dc-full-page, .dc-page-contents, .dc-page-credits, .dc-page-intro, .dc-page-citizen-file) > .dc-specialty-art { page: dc-wall-3-full; }
 .chapter.dc-chapter-specialty > .page.dc-page-wall-4:where(:not(.gp-page-full-bleed, .dc-full-page, .dc-page-contents, .dc-page-credits, .dc-page-intro, .dc-page-citizen-file)) { page: dc-wall-4-blue; }
 .chapter.dc-chapter-rules > .page.dc-page-wall-4:where(:not(.gp-page-full-bleed, .dc-full-page, .dc-page-contents, .dc-page-credits, .dc-page-intro, .dc-page-citizen-file)) { page: dc-wall-4-rust; }
@@ -157,7 +157,7 @@
 .chapter.dc-chapter-dm :where(.dc-page-wall-4:not(.page, .gp-page-full-bleed, .dc-full-page, .dc-page-contents, .dc-page-credits, .dc-page-intro, .dc-page-citizen-file)) > :not(.gp-page-full-bleed, .dc-full-page, .dc-page-contents, .dc-page-credits, .dc-page-intro, .dc-page-citizen-file, .dc-specialty-art) { page: dc-wall-4-ink; }
 .chapter.dc-chapter-gear :where(.dc-page-wall-4:not(.page, .gp-page-full-bleed, .dc-full-page, .dc-page-contents, .dc-page-credits, .dc-page-intro, .dc-page-citizen-file)) > :not(.gp-page-full-bleed, .dc-full-page, .dc-page-contents, .dc-page-credits, .dc-page-intro, .dc-page-citizen-file, .dc-specialty-art) { page: dc-wall-4-amber; }
 :where(.dc-page-wall-4:not(.page, .gp-page-full-bleed, .dc-full-page, .dc-page-contents, .dc-page-credits, .dc-page-intro, .dc-page-citizen-file)) > :not(.gp-page-full-bleed, .dc-full-page, .dc-page-contents, .dc-page-credits, .dc-page-intro, .dc-page-citizen-file, .dc-specialty-art) { page: dc-wall-4; }
-@page dc-wall-4-full { margin: 0; background: url("../images/ground-4.png") 50% calc(var(--gp-page-height, 11.25in) - 0.6in) / 10in 0.6in no-repeat, url("../images/wall-4.png") 0 0 / 4.80in auto repeat var(--bg); @bottom-left { content: none; } @bottom-right { content: none; } }
+@page dc-wall-4-full { margin: 0; background: url("../images/ground-flags.png") 50% calc(var(--gp-page-height, 11.25in) - 0.6in) / 10in 0.6in no-repeat, url("../images/wall-4.png") 0 0 / 4.80in auto repeat var(--bg); @bottom-left { content: none; } @bottom-right { content: none; } }
 .dc-page-wall-4:not(.page, .gp-page-full-bleed, .dc-full-page, .dc-page-contents, .dc-page-credits, .dc-page-intro, .dc-page-citizen-file) > .dc-specialty-art { page: dc-wall-4-full; }
 .chapter.dc-chapter-specialty > .page.dc-page-wall-5:where(:not(.gp-page-full-bleed, .dc-full-page, .dc-page-contents, .dc-page-credits, .dc-page-intro, .dc-page-citizen-file)) { page: dc-wall-5-blue; }
 .chapter.dc-chapter-rules > .page.dc-page-wall-5:where(:not(.gp-page-full-bleed, .dc-full-page, .dc-page-contents, .dc-page-credits, .dc-page-intro, .dc-page-citizen-file)) { page: dc-wall-5-rust; }
@@ -171,7 +171,7 @@
 .chapter.dc-chapter-dm :where(.dc-page-wall-5:not(.page, .gp-page-full-bleed, .dc-full-page, .dc-page-contents, .dc-page-credits, .dc-page-intro, .dc-page-citizen-file)) > :not(.gp-page-full-bleed, .dc-full-page, .dc-page-contents, .dc-page-credits, .dc-page-intro, .dc-page-citizen-file, .dc-specialty-art) { page: dc-wall-5-ink; }
 .chapter.dc-chapter-gear :where(.dc-page-wall-5:not(.page, .gp-page-full-bleed, .dc-full-page, .dc-page-contents, .dc-page-credits, .dc-page-intro, .dc-page-citizen-file)) > :not(.gp-page-full-bleed, .dc-full-page, .dc-page-contents, .dc-page-credits, .dc-page-intro, .dc-page-citizen-file, .dc-specialty-art) { page: dc-wall-5-amber; }
 :where(.dc-page-wall-5:not(.page, .gp-page-full-bleed, .dc-full-page, .dc-page-contents, .dc-page-credits, .dc-page-intro, .dc-page-citizen-file)) > :not(.gp-page-full-bleed, .dc-full-page, .dc-page-contents, .dc-page-credits, .dc-page-intro, .dc-page-citizen-file, .dc-specialty-art) { page: dc-wall-5; }
-@page dc-wall-5-full { margin: 0; background: url("../images/ground-5.png") 50% calc(var(--gp-page-height, 11.25in) - 0.6in) / 10in 0.6in no-repeat, url("../images/wall-5.png") 0 0 / 4.79in auto repeat var(--bg); @bottom-left { content: none; } @bottom-right { content: none; } }
+@page dc-wall-5-full { margin: 0; background: url("../images/ground.png") 50% calc(var(--gp-page-height, 11.25in) - 0.6in) / 10in 0.6in no-repeat, url("../images/wall-5.png") 0 0 / 4.79in auto repeat var(--bg); @bottom-left { content: none; } @bottom-right { content: none; } }
 .dc-page-wall-5:not(.page, .gp-page-full-bleed, .dc-full-page, .dc-page-contents, .dc-page-credits, .dc-page-intro, .dc-page-citizen-file) > .dc-specialty-art { page: dc-wall-5-full; }
 .chapter.dc-chapter-specialty > .page.dc-page-wall-6:where(:not(.gp-page-full-bleed, .dc-full-page, .dc-page-contents, .dc-page-credits, .dc-page-intro, .dc-page-citizen-file)) { page: dc-wall-6-blue; }
 .chapter.dc-chapter-rules > .page.dc-page-wall-6:where(:not(.gp-page-full-bleed, .dc-full-page, .dc-page-contents, .dc-page-credits, .dc-page-intro, .dc-page-citizen-file)) { page: dc-wall-6-rust; }
@@ -185,7 +185,7 @@
 .chapter.dc-chapter-dm :where(.dc-page-wall-6:not(.page, .gp-page-full-bleed, .dc-full-page, .dc-page-contents, .dc-page-credits, .dc-page-intro, .dc-page-citizen-file)) > :not(.gp-page-full-bleed, .dc-full-page, .dc-page-contents, .dc-page-credits, .dc-page-intro, .dc-page-citizen-file, .dc-specialty-art) { page: dc-wall-6-ink; }
 .chapter.dc-chapter-gear :where(.dc-page-wall-6:not(.page, .gp-page-full-bleed, .dc-full-page, .dc-page-contents, .dc-page-credits, .dc-page-intro, .dc-page-citizen-file)) > :not(.gp-page-full-bleed, .dc-full-page, .dc-page-contents, .dc-page-credits, .dc-page-intro, .dc-page-citizen-file, .dc-specialty-art) { page: dc-wall-6-amber; }
 :where(.dc-page-wall-6:not(.page, .gp-page-full-bleed, .dc-full-page, .dc-page-contents, .dc-page-credits, .dc-page-intro, .dc-page-citizen-file)) > :not(.gp-page-full-bleed, .dc-full-page, .dc-page-contents, .dc-page-credits, .dc-page-intro, .dc-page-citizen-file, .dc-specialty-art) { page: dc-wall-6; }
-@page dc-wall-6-full { margin: 0; background: url("../images/ground.png") 50% calc(var(--gp-page-height, 11.25in) - 0.6in) / 10in 0.6in no-repeat, url("../images/wall-6.png") 0 0 / 4.53in auto repeat var(--bg); @bottom-left { content: none; } @bottom-right { content: none; } }
+@page dc-wall-6-full { margin: 0; background: url("../images/ground-asphalt.png") 50% calc(var(--gp-page-height, 11.25in) - 0.6in) / 10in 0.6in no-repeat, url("../images/wall-6.png") 0 0 / 4.53in auto repeat var(--bg); @bottom-left { content: none; } @bottom-right { content: none; } }
 .dc-page-wall-6:not(.page, .gp-page-full-bleed, .dc-full-page, .dc-page-contents, .dc-page-credits, .dc-page-intro, .dc-page-citizen-file) > .dc-specialty-art { page: dc-wall-6-full; }
 /* page-walls:end */
 

diff --git a/scripts/wall-tiles.py b/scripts/wall-tiles.py
@@ -3,7 +3,7 @@
     python3 scripts/wall-tiles.py [source-art/wall-sheet.png]
     python3 scripts/wall-tiles.py --css     # rewrite the CSS only, from images/
     python3 scripts/wall-tiles.py --ground  # redraw the ground only
-    python3 scripts/wall-tiles.py --grounds # each wall's own street (walls 1-5), and the CSS
+    python3 scripts/wall-tiles.py --grounds # the three streets (setts, flags, asphalt), grimed, and the CSS
 
 Python 3 with Pillow; the six walls bake in parallel, in a couple of minutes.
 Reads the sheet (six square-ish stone panels on a transparent ground, two
@@ -63,7 +63,7 @@ import math
 import random
 import sys
 from multiprocessing import Pool
-from PIL import Image, ImageChops, ImageFilter, ImageOps, ImageStat
+from PIL import Image, ImageChops, ImageDraw, ImageFilter, ImageOps, ImageStat
 
 ARGS = [a for a in sys.argv[1:] if not a.startswith("--")]
 SHEET = ARGS[0] if ARGS else "source-art/wall-sheet.png"
@@ -81,11 +81,13 @@ SETT_WALLS = {6}                    # regular grids: laid sett by sett instead o
 SETT, SETTS = 136, 8                # the sett cell, px, and cells a side
 JOINT = 6                           # half-width of the drawn joint, px
 BEDDED = {5: 0.62}                  # walls squashed into beds first: flagstones laid flat read as a wall
-GROUND = "images/ground.png"        # the pavement at the foot of the brick, and of wall 6 (its setts)
-# Every other wall stands on a street of its own stone: images/ground-N.png,
-# drawn from wall N's baked tile (`--grounds`), so the street under a page
-# matches the wall behind it.
-OWN_GROUND = (1, 2, 3, 4, 5)
+GROUND = "images/ground.png"        # the setts: the street under the brick
+# Three streets, none a copy of a wall (a street of the wall's own stone read as
+# the wall carrying on, not as ground): setts, bonded flagstones cut from the
+# same stone, and cracked, patched asphalt. Each wall stands on one that
+# contrasts with it. All of them are grimed (`grime`). `--grounds` draws them.
+STREETS = {"setts": GROUND, "flags": "images/ground-flags.png", "asphalt": "images/ground-asphalt.png"}
+WALL_STREET = {1: "flags", 2: "asphalt", 3: "setts", 4: "flags", 5: "setts", 6: "asphalt"}
 GROUND_FROM = 6                     # laid from this wall's panel: its setts make the paving slabs
 GROUND_IN = 0.6                     # its depth from the sheet edge, in: just under the footer chips
 GROUND_DPI = 300                    # the ground is drawn, so it is drawn at the print bar (the walls print at DPI)
@@ -478,15 +480,86 @@ def replace_block(path, name, body):
 
 
 def ground_of(n):
-    """The ground a wall's pages stand on."""
-    return f"images/ground-{n}.png" if n in OWN_GROUND else GROUND
+    """The street a wall's pages stand on."""
+    return STREETS[WALL_STREET[n]]
 
 
-def wall_ground(n, tones):
-    """Wall n's street: its baked tile (light stone, grey joints) turned back to dark
-    stone on light joints, laid in the ground's perspective and tinted as the ground."""
-    tile = ImageOps.invert(Image.open(f"images/wall-{n}.png").convert("L"))
-    return ground(None, tones, grid=tile)
+def asphalt(seed, size=SETT * SETTS):
+    """Cracked asphalt, flat, as the ground's source: high values come out dark. A
+    fine grain and cracks that wander and branch. (Cut-in patches were tried: in
+    the strip's shallow perspective their seams stretched into long lines.)"""
+    rnd = random.Random(seed)
+    grain = Image.effect_noise((size, size), 46).filter(ImageFilter.GaussianBlur(0.8))
+    out = ImageChops.multiply(grain, Image.new("L", grain.size, 190))
+    draw = ImageDraw.Draw(out)
+    for _ in range(14):                                  # cracks: random walks that branch
+        # mostly across the street: a crack running toward the viewer is stretched
+        # into a long straight line by the strip's shallow perspective
+        x, y, a = rnd.randrange(size), rnd.randrange(size), rnd.choice((0, math.pi)) + rnd.uniform(-0.5, 0.5)
+        stack = [(x, y, a, rnd.randint(50, 120))]
+        while stack:
+            x, y, a, n = stack.pop()
+            for _ in range(n):
+                a += rnd.uniform(-0.45, 0.45)
+                a += (round(a / math.pi) * math.pi - a) * 0.15   # drawn back toward across
+                nx, ny = x + 4 * math.cos(a), y + 4 * math.sin(a)
+                a0, a1 = (x % size, y % size), (nx % size, ny % size)
+                if abs(a0[0] - a1[0]) < 8 and abs(a0[1] - a1[1]) < 8:   # not across the wrap: that line spans the tile
+                    draw.line((*a0, *a1), fill=255, width=rnd.choice((2, 2, 3)))
+                x, y = nx, ny
+                if rnd.random() < 0.025:
+                    stack.append((x, y, a + rnd.choice((-1, 1)) * rnd.uniform(0.4, 0.8), rnd.randint(12, 35)))
+    return out
+
+
+def grime(rgb, seed, base=1.0, grain=0):
+    """Street dirt over a drawn ground, in the book's flat, drawn look: hard-edged
+    tone steps, never a soft blur, and darkening only, so it stays in the brick's
+    greys. Ragged stains in two flat tones, soot pooled along the wall's foot,
+    grit specks and chips, and a ragged gutter edge at the sheet's foot.
+    `base` darkens the whole surface (asphalt), `grain` adds its speckle."""
+    import numpy as np
+    rng = np.random.default_rng(seed)
+    a = np.asarray(rgb).astype(float) * base
+    H, W = a.shape[:2]
+
+    def noise(sx, sy):                                   # smooth noise, cells sx by sy px
+        cells = rng.random((H // sy + 3, W // sx + 3))
+        im = Image.fromarray((cells * 255).astype("uint8")).resize((W + 3 * sx, H + 3 * sy), Image.BICUBIC)
+        return np.asarray(im.crop((sx, sy, sx + W, sy + H))).astype(float) / 255
+
+    rough = noise(3, 3) * 0.10                           # ragged edges: a fine jitter on every threshold
+    blot = noise(80, 24) + rough
+    stains = 0.13 * (blot > 0.70) + 0.11 * (blot > 0.84)  # two flat tones, hard edges
+    spots = noise(22, 9) + rough
+    stains += 0.12 * (spots > 0.86)
+    y = np.arange(H)[:, None] / H
+    # soot pooled along the wall's foot: a ragged band, deepest where the noise says
+    reach = 0.10 + 0.22 * noise(26, H)[:1, :] ** 2 + 0.05 * noise(5, H)[:1, :]   # ragged in 5px steps, not per pixel
+    foot = 0.16 * (y < reach) + 0.08 * (y < reach * 0.45)
+    gutter = 0.12 * (y > 0.84 + (noise(18, H)[:1, :] - 0.5) * 0.10 + (noise(5, H)[:1, :] - 0.5) * 0.04)
+    specks = rng.random((H, W))
+    grit = 0.40 * (specks < 0.004) + 0.22 * ((specks >= 0.004) & (specks < 0.010))
+    chips = Image.fromarray(((rng.random((H, W)) < 0.0008) * 255).astype("uint8")).filter(ImageFilter.MaxFilter(3))
+    grit = np.maximum(grit, 0.30 * (np.asarray(chips) > 0))
+    if grain:
+        grit = np.maximum(grit, grain * (rng.random((H, W)) < 0.12))
+    k = (1 - np.minimum(stains, 0.36)) * (1 - foot) * (1 - gutter) * (1 - grit)
+    return Image.fromarray(np.clip(a * k[..., None], 0, 255).astype("uint8"))
+
+
+def street(kind, tones):
+    """One of the three streets, drawn and grimed."""
+    panel = Image.open(SHEET).convert("RGBA").crop(opaque_boxes(Image.open(SHEET).convert("RGBA"))[GROUND_FROM - 1]).convert("L")
+    if kind == "setts":
+        grid = lay_setts(panel, seed=60)
+    elif kind == "flags":                               # bigger slabs, every other row half along
+        grid = lay_setts(panel, seed=61, bond=True)
+        grid = grid.resize((round(grid.width * 1.7), round(grid.height * 1.7)), Image.LANCZOS)
+    else:
+        grid = asphalt(seed=62)
+    asph = kind == "asphalt"
+    return grime(ground(None, tones, grid=grid), seed=sum(map(ord, kind)), base=0.80 if asph else 1.0, grain=0.14 if asph else 0)
 
 
 def ground_layer(deeper="", sheet=False, n=None):
@@ -581,11 +654,11 @@ def main():
         panel = Image.open(SHEET).convert("RGBA").crop(box).convert("L")
         ground(panel, brick_tones()).save(GROUND, optimize=True)
         return
-    if "--grounds" in sys.argv:             # each wall's own street, from its baked tile
+    if "--grounds" in sys.argv:             # the three streets, grimed, and the CSS
         tones = brick_tones()
-        for n in OWN_GROUND:
-            wall_ground(n, tones).save(ground_of(n), optimize=True)
-            print(ground_of(n), flush=True)
+        for kind, path in STREETS.items():
+            street(kind, tones).save(path, optimize=True)
+            print(path, flush=True)
         write_css({n: Image.open(f"images/wall-{n}.png").size for n in range(1, 7)})
         return
     if "--css" in sys.argv:                 # the CSS alone, from the tiles already baked

diff --git a/CHANGELOG.md b/CHANGELOG.md
@@ -36,12 +36,16 @@ and the styles say where a reader is and what they are reading.
 
 ### Added
 
-- **Each wall stands on its own street.** A page on `wall-1` … `wall-5` has a
-  ground strip drawn from that wall's own stone (`images/ground-1.png` …
-  `ground-5.png`), in the same perspective, tint and shadow as the setts;
-  `wall-6` and the plain brick keep the setts (`images/ground.png`). Nothing
-  to write: the page's wall picks its street. `scripts/wall-tiles.py --grounds`
-  redraws them.
+- **Grimy streets, one to contrast each wall.** The ground strip under a wall
+  page is one of three streets: setts (`images/ground.png`, also under the
+  plain brick), bonded flagstones (`ground-flags.png`) or cracked asphalt
+  (`ground-asphalt.png`), each wall paired with one that contrasts with it
+  (walls 1 and 4 flagstones, 2 and 6 asphalt, 3 and 5 setts). All three are
+  grimed in the book's flat, drawn look: ragged stains in two tones, soot
+  pooled at the wall's foot, grit and chips, a ragged gutter. Nothing to
+  write: the wall a page names picks its street. `scripts/wall-tiles.py
+  --grounds` redraws them. (1.10.3-alpha.2 had a street of each wall's own
+  stone, `ground-1.png` … `ground-5.png`; it read as the wall carrying on.)
 - **A warning on raw HTML.** Every HTML tag written into the markdown is
   reported on its line (`raw_html`), in a table cell too: the package cannot
   check it, and a tag left open styles everything after it (a
